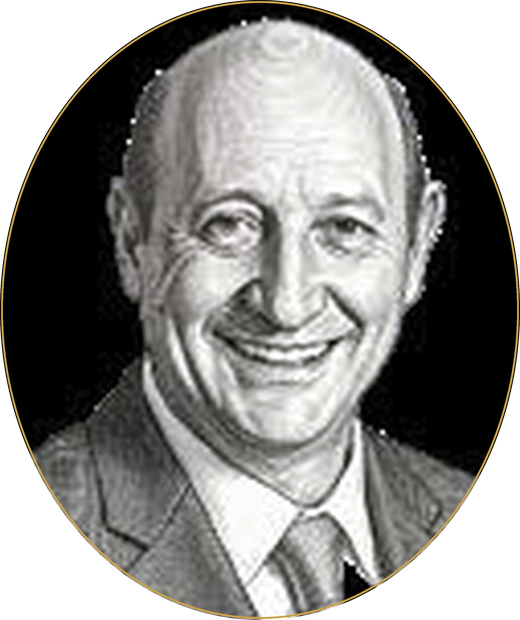
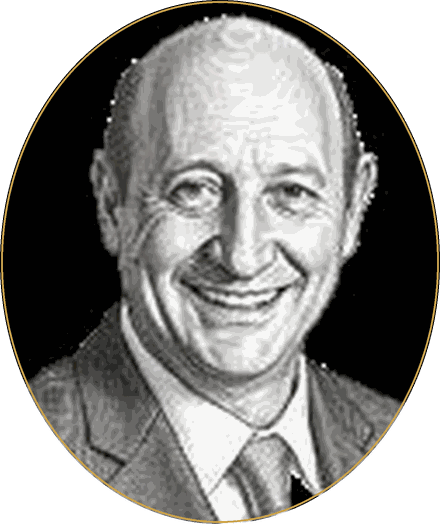
Risk Governance: foto oval optimizada (109KB) + cache-bust ?v=2, sin lazy

diff --git a/index.html b/index.html
@@ -304,7 +304,7 @@ footer a{color:var(--oro);text-decoration:none}
   <h2 class="sec-title">Practitioners, no profesores.</h2>
   <div class="rule"></div>
   <div class="fac">
-    <div class="fac-img"><img src="moises-tiktin-oval.png" alt="Moisés Tiktin Nickin" loading="lazy"></div>
+    <div class="fac-img"><img src="moises-tiktin-oval.png?v=2" alt="Moisés Tiktin Nickin"></div>
     <div>
       <h3>Moisés Tiktin Nickin</h3>
       <div class="fac-role">Former CEO, Banco Monex &amp; Monex Casa de Bolsa | Independent Board Director | ITAM Faculty</div>